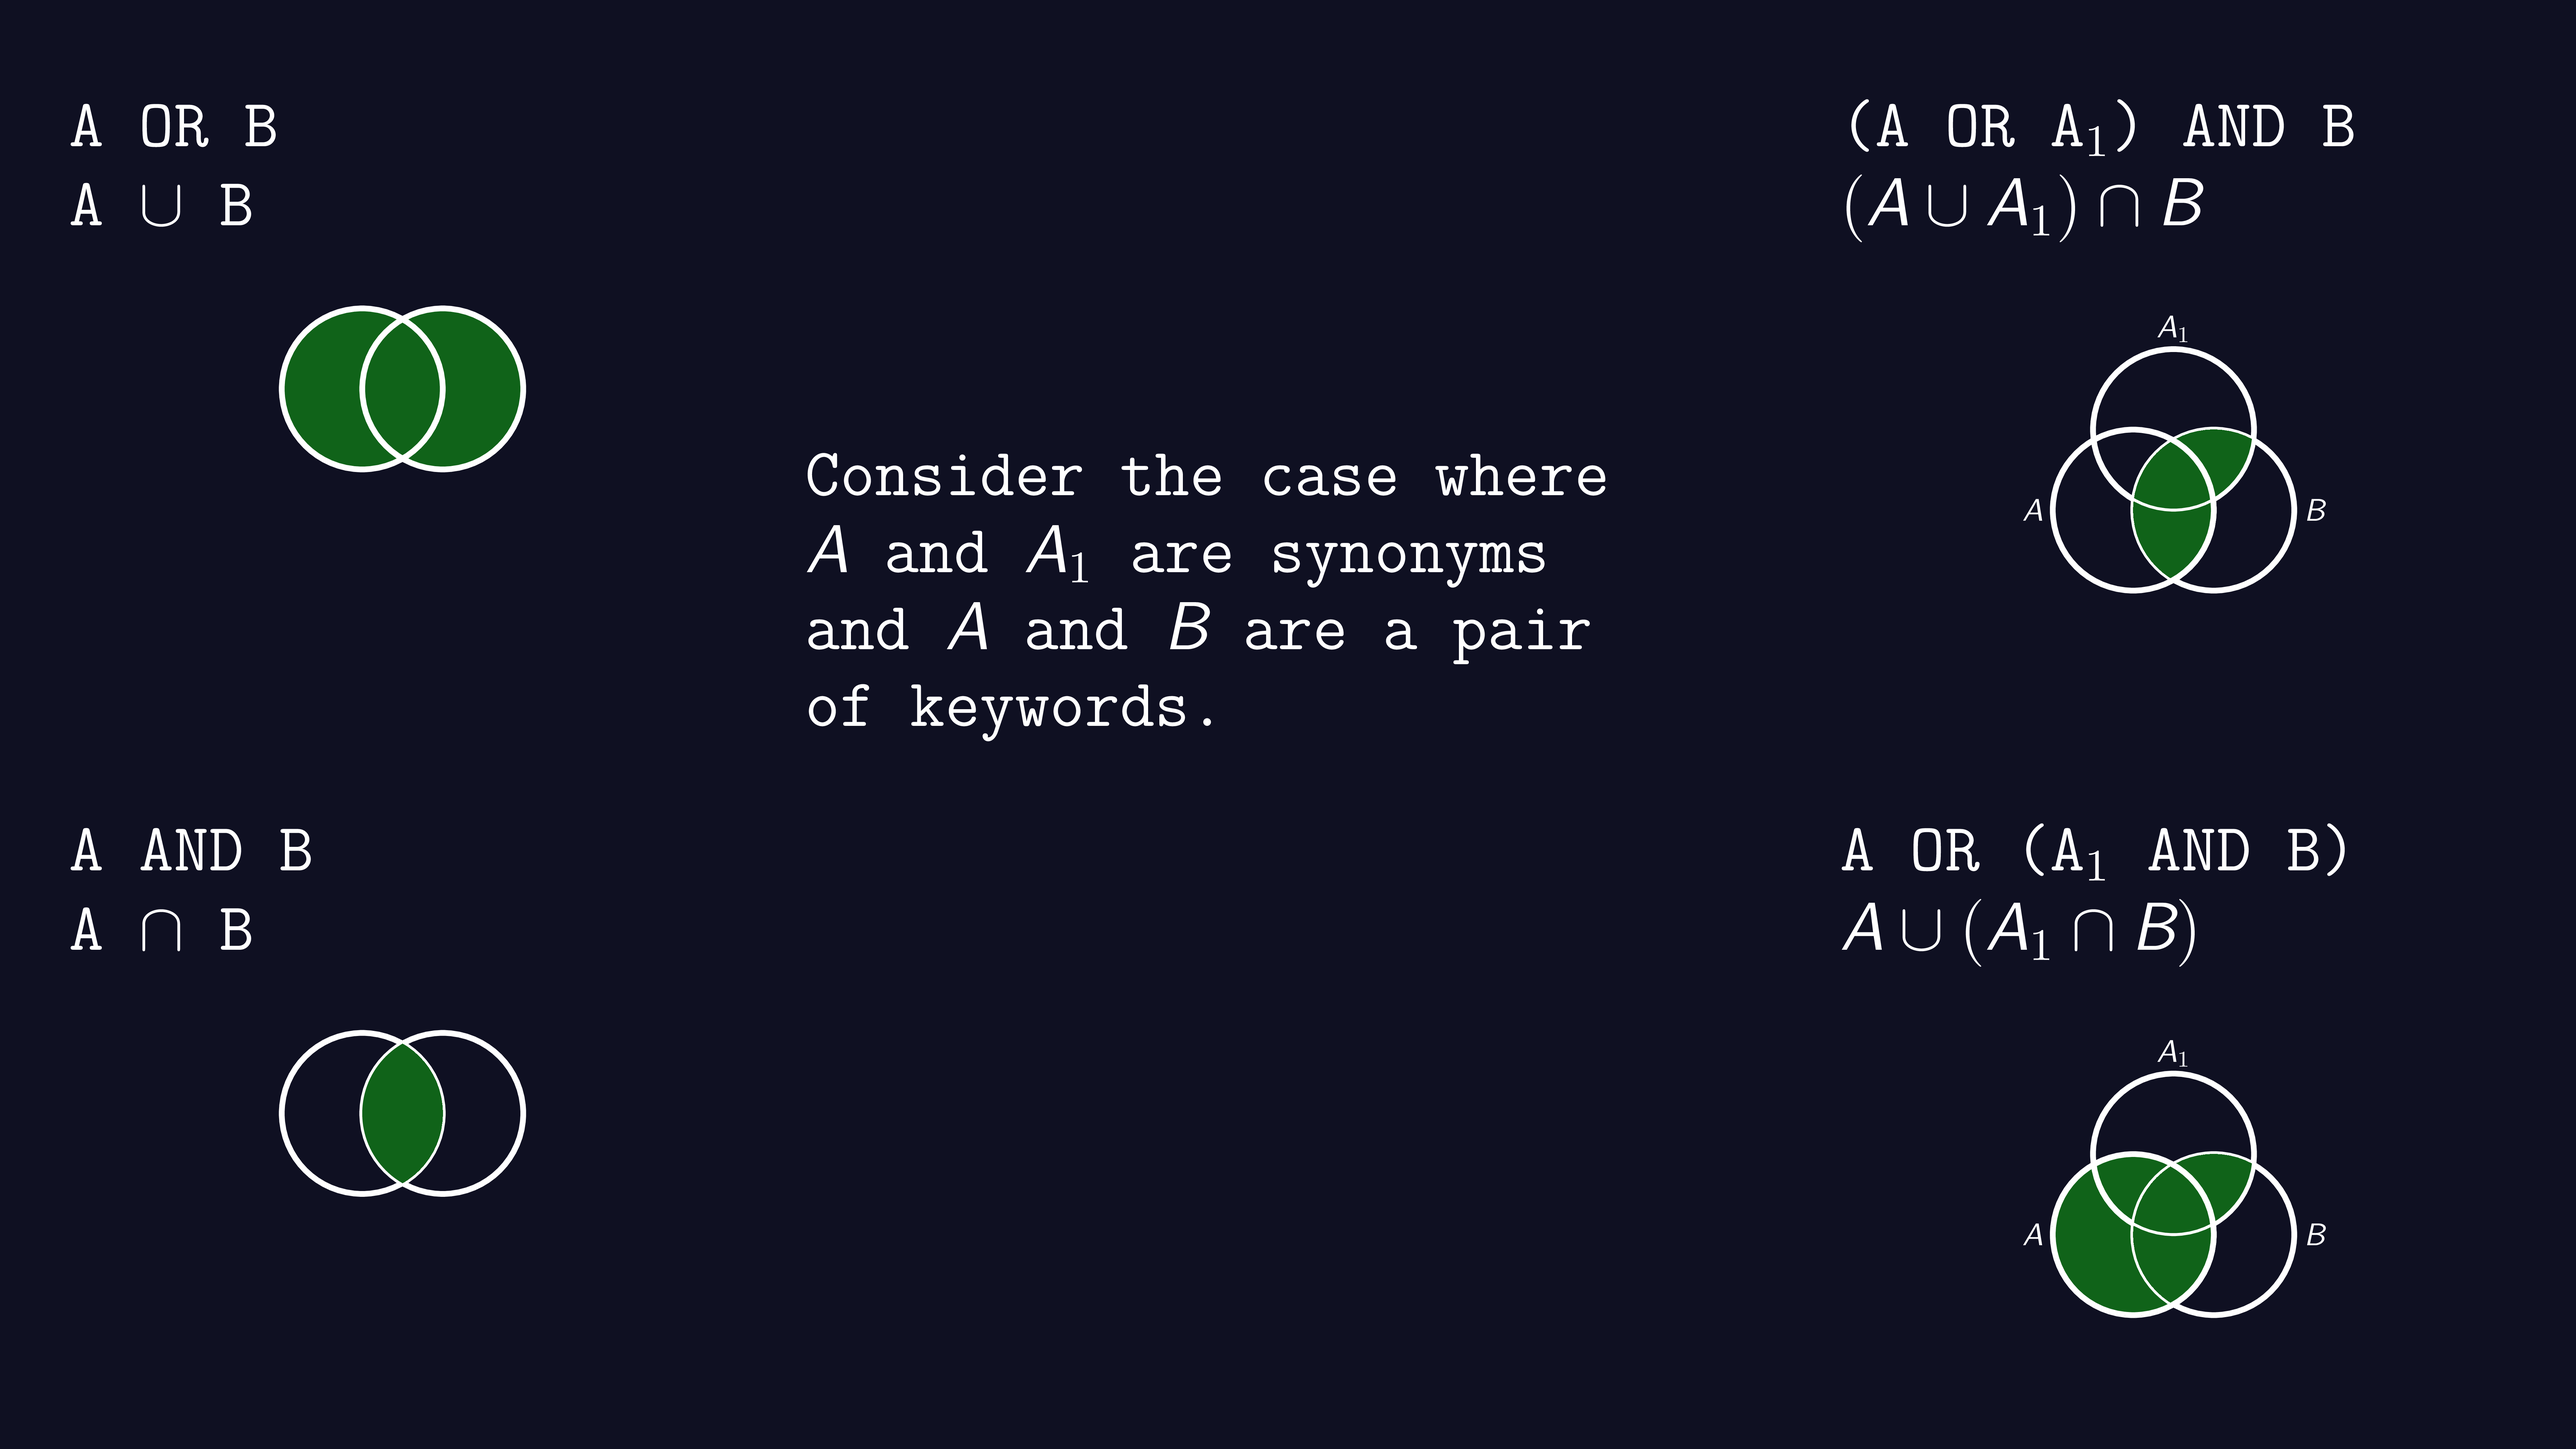
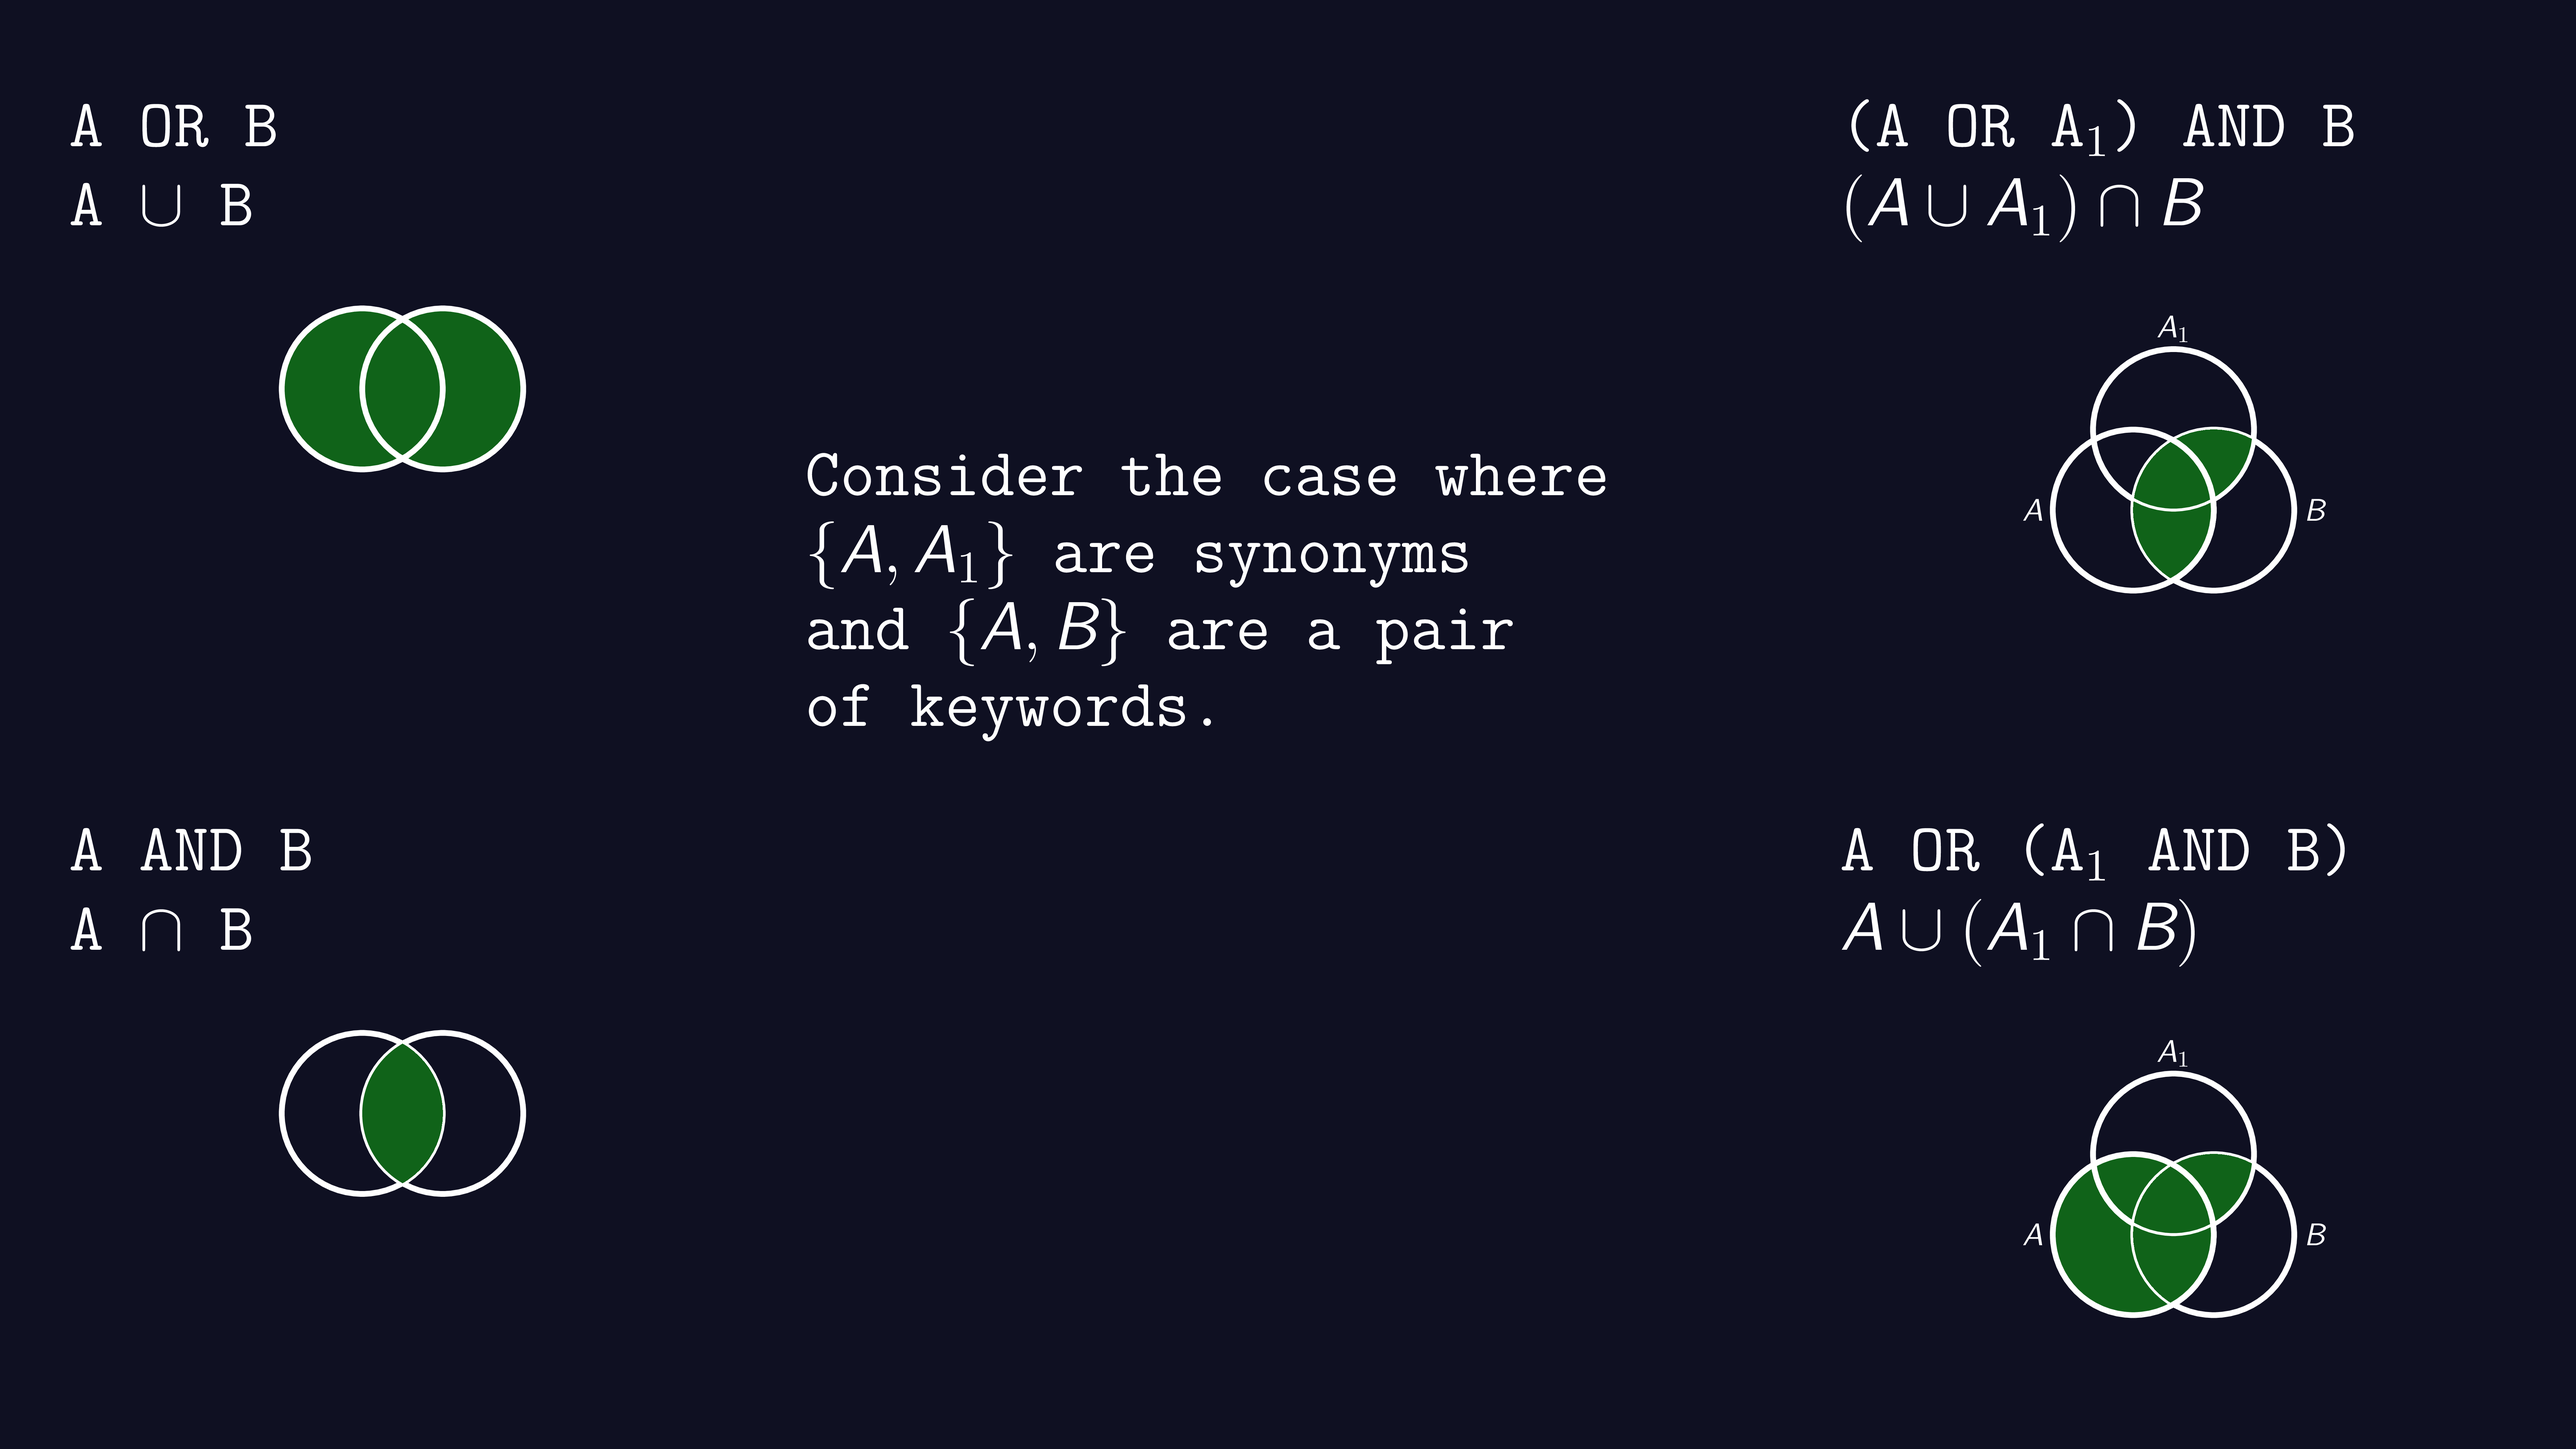
fix explainer text to be more clear.

Changed region(s): [[0.3122, 0.3415, 0.5932, 0.4657]]

diff --git a/backgrounds/background004.beamer.tex b/backgrounds/background004.beamer.tex
@@ -66,8 +66,7 @@
 %%% Middle Explainer Box
 \begin{textblock}{5}(5,5)
 	\MTitle{%
-	Consider the case where $A$ and $A_1$ are synonyms and $A$ and
-	$B$ are a pair of keywords.
+	Consider the case where $\{A, A_1\}$ are synonyms and $\{A,B\}$ are a pair of keywords.
 	}
 \end{textblock}
 
